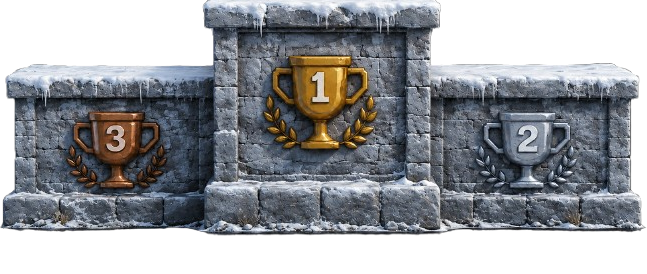
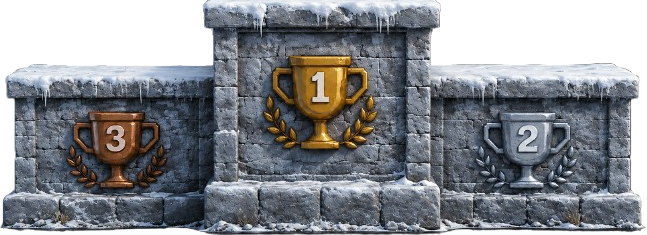
Add dark rock + metal podium

diff --git a/singleplayer/HighScore/online/planet10.html b/singleplayer/HighScore/online/planet10.html
@@ -104,7 +104,7 @@
             </div>
         </div>
         
-        <img class="podium-img" src="../../../images/podium/1.png">
+        <img class="podium-img" src="../../../images/podium/4.png">
 
         <table>
             <thead>

diff --git a/singleplayer/HighScore/online/planet11.html b/singleplayer/HighScore/online/planet11.html
@@ -104,7 +104,7 @@
             </div>
         </div>
         
-        <img class="podium-img" src="../../../images/podium/1.png">
+        <img class="podium-img" src="../../../images/podium/5.png">
 
         <table>
             <thead>

diff --git a/singleplayer/HighScore/online/planet13.html b/singleplayer/HighScore/online/planet13.html
@@ -104,7 +104,7 @@
             </div>
         </div>
         
-        <img class="podium-img" src="../../../images/podium/1.png">
+        <img class="podium-img" src="../../../images/podium/4.png">
 
         <table>
             <thead>

diff --git a/singleplayer/HighScore/online/planet14.html b/singleplayer/HighScore/online/planet14.html
@@ -104,7 +104,7 @@
             </div>
         </div>
         
-        <img class="podium-img" src="../../../images/podium/1.png">
+        <img class="podium-img" src="../../../images/podium/5.png">
 
         <table>
             <thead>

diff --git a/singleplayer/HighScore/online/planet16.html b/singleplayer/HighScore/online/planet16.html
@@ -104,7 +104,7 @@
             </div>
         </div>
         
-        <img class="podium-img" src="../../../images/podium/1.png">
+        <img class="podium-img" src="../../../images/podium/2.png">
 
         <table>
             <thead>

diff --git a/singleplayer/HighScore/online/planet17.html b/singleplayer/HighScore/online/planet17.html
@@ -104,7 +104,7 @@
             </div>
         </div>
         
-        <img class="podium-img" src="../../../images/podium/1.png">
+        <img class="podium-img" src="../../../images/podium/4.png">
 
         <table>
             <thead>

diff --git a/singleplayer/HighScore/online/planet18.html b/singleplayer/HighScore/online/planet18.html
@@ -104,7 +104,7 @@
             </div>
         </div>
         
-        <img class="podium-img" src="../../../images/podium/1.png">
+        <img class="podium-img" src="../../../images/podium/4.png">
 
         <table>
             <thead>

diff --git a/singleplayer/HighScore/online/planet4.html b/singleplayer/HighScore/online/planet4.html
@@ -104,7 +104,7 @@
             </div>
         </div>
         
-        <img class="podium-img" src="../../../images/podium/1.png">
+        <img class="podium-img" src="../../../images/podium/5.png">
 
         <table>
             <thead>

diff --git a/singleplayer/HighScore/online/planet6.html b/singleplayer/HighScore/online/planet6.html
@@ -104,7 +104,7 @@
             </div>
         </div>
         
-        <img class="podium-img" src="../../../images/podium/1.png">
+        <img class="podium-img" src="../../../images/podium/3.png">
 
         <table>
             <thead>

diff --git a/singleplayer/HighScore/online/planet7.html b/singleplayer/HighScore/online/planet7.html
@@ -104,7 +104,7 @@
             </div>
         </div>
         
-        <img class="podium-img" src="../../../images/podium/1.png">
+        <img class="podium-img" src="../../../images/podium/5.png">
 
         <table>
             <thead>

diff --git a/singleplayer/HighScore/online/planet9.html b/singleplayer/HighScore/online/planet9.html
@@ -104,7 +104,7 @@
             </div>
         </div>
         
-        <img class="podium-img" src="../../../images/podium/1.png">
+        <img class="podium-img" src="../../../images/podium/4.png">
 
         <table>
             <thead>
